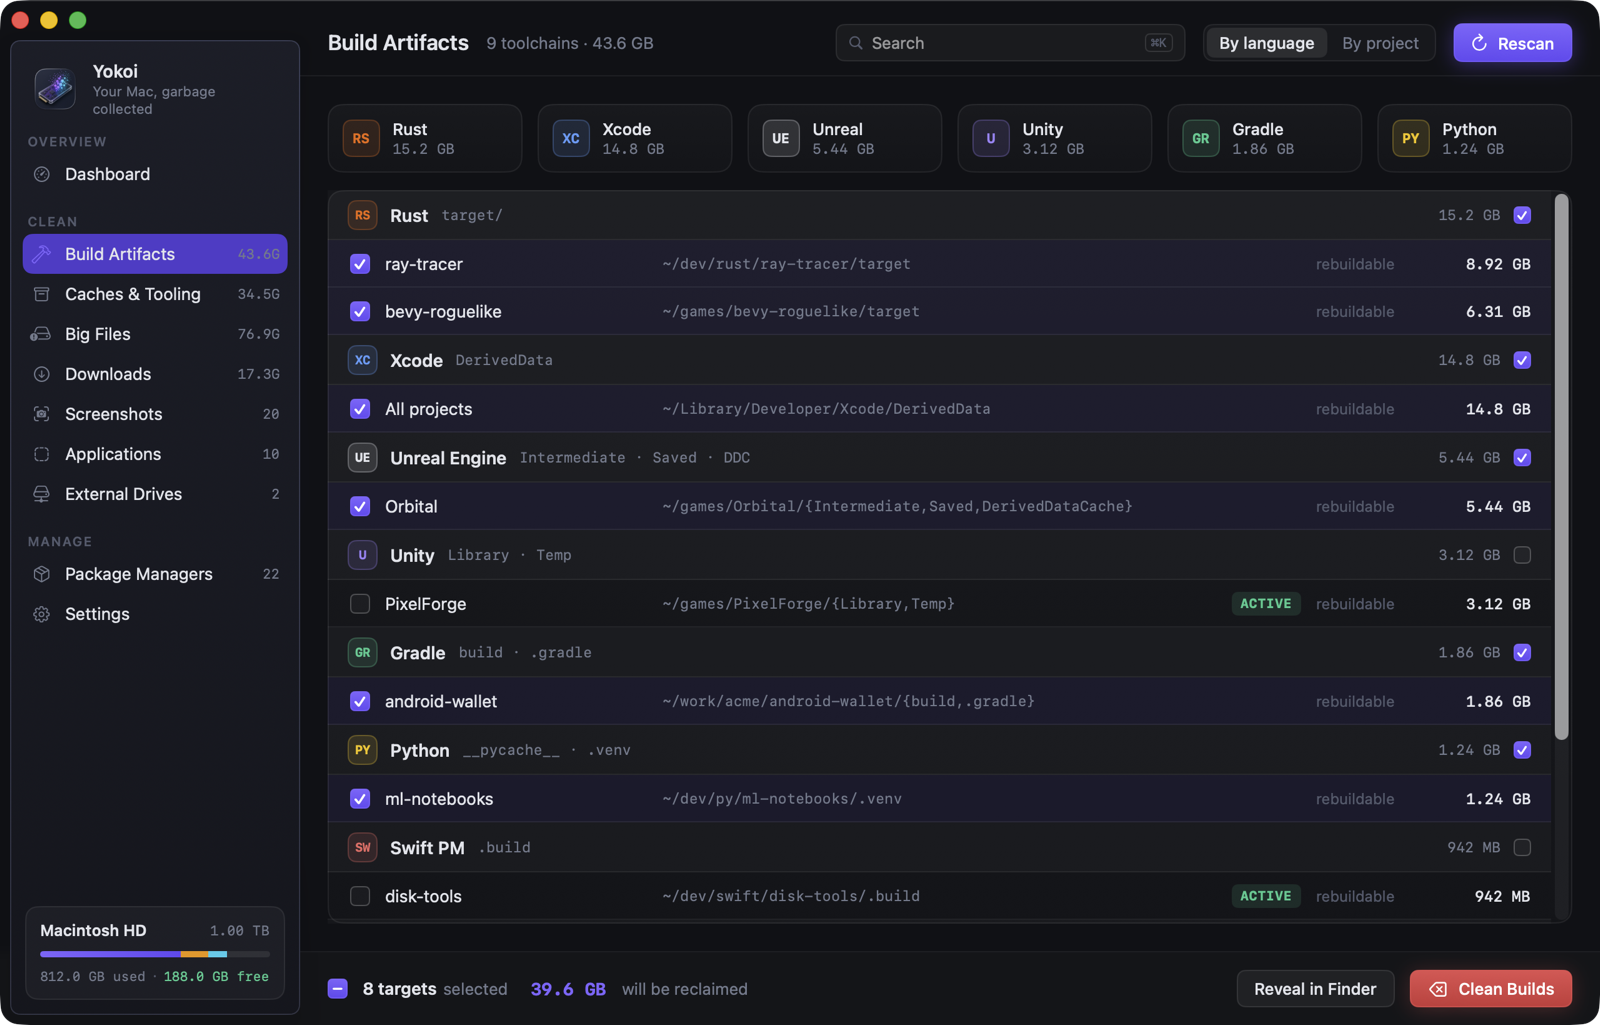
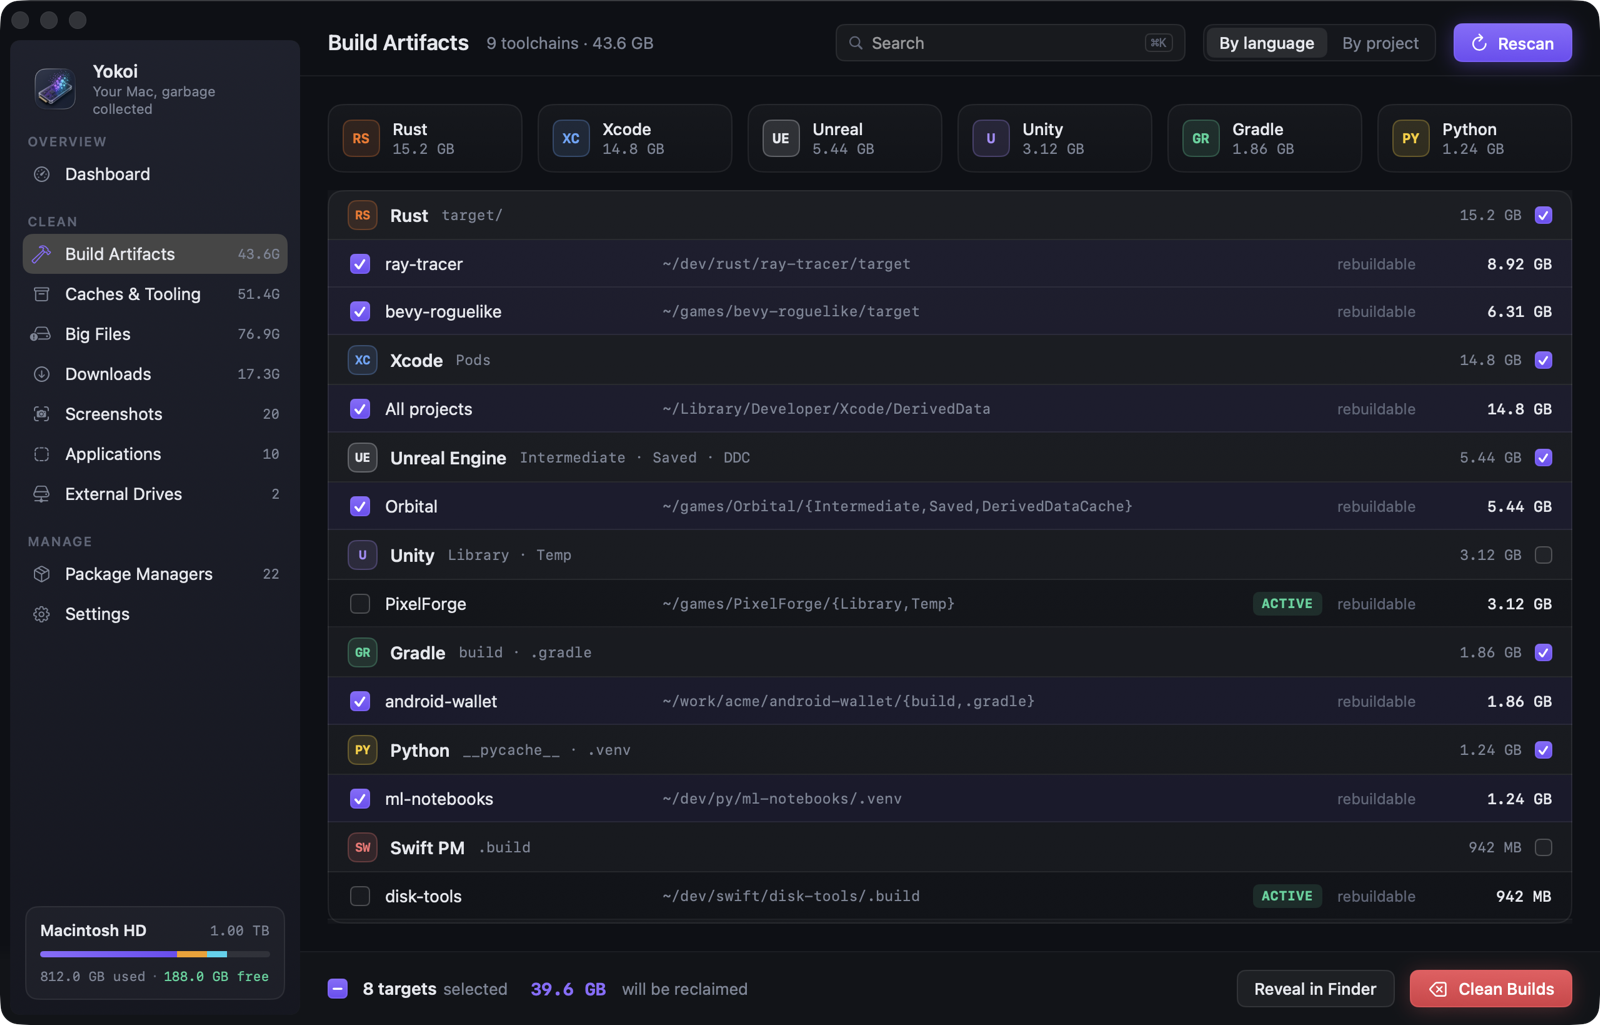
New screenshots for 1.4.0
Demo mode gets sample sizes for the new cache sections (Python, editors,
containers, more JavaScript and JVM tools) and the Go module cache, and every
README and site screenshot is retaken from it.

diff --git a/Yokoi/App/DemoData.swift b/Yokoi/App/DemoData.swift
@@ -103,6 +103,10 @@ enum DemoData {
                 "yarn": 1_120 * MB, "homebrew": 2_040 * MB, "cargo-registry": 1_780 * MB, "cocoapods": 884 * MB, "pip": 702 * MB,
                 "simulator-devices": 3_270 * MB, "xcode-archives": 1_060 * MB, "ollama": 7_400 * MB,
                 "chrome": 1_310 * MB, "arc": 822 * MB,
+                "playwright": 1_460 * MB, "yarn-berry": 690 * MB, "uv": 2_880 * MB, "poetry": 540 * MB,
+                "gradle-caches": 2_210 * MB, "maven": 1_340 * MB, "nuget-packages": 970 * MB,
+                "xcode-previews": 1_150 * MB, "vscode-cached-data": 410 * MB, "vscode-vsix": 1_270 * MB,
+                "cursor-cache": 520 * MB, "jetbrains-caches": 3_060 * MB, "docker-desktop-logs": 318 * MB, "orbstack-logs": 96 * MB,
             ]
             guard let size = sizes[loc.id] else { return nil }
             let u = loc.url(home: home)
@@ -313,6 +317,8 @@ enum DemoData {
                                                 commands: [["docker", "image", "prune", "--all", "--force"]], note: nil),
                 .dockerBuildCache: ToolActionStatus(action: .dockerBuildCache, count: 214, size: 4_120 * MB, items: [],
                                                     commands: [["docker", "builder", "prune", "--all", "--force"]], note: nil),
+                .goModuleCache: ToolActionStatus(action: .goModuleCache, count: 412, size: 2_190 * MB, items: [],
+                                                 commands: [["go", "clean", "-modcache"]], note: nil),
                 .dockerVolumes: ToolActionStatus(action: .dockerVolumes, count: 2, size: 1_310 * MB,
                                                  items: ["orbital_pgdata", "3f9c1e7a2b"].map { Item(id: $0, label: $0, command: ["docker", "volume", "rm", $0]) },
                                                  commands: [["docker", "volume", "rm", "orbital_pgdata", "3f9c1e7a2b"]], note: nil)]
